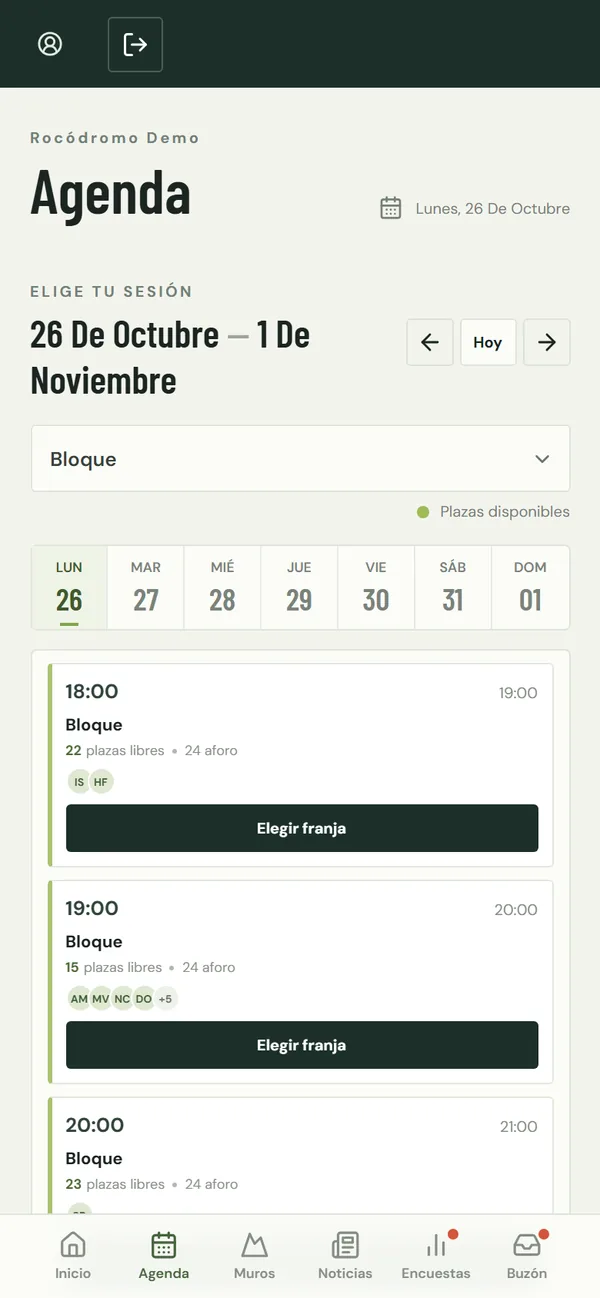
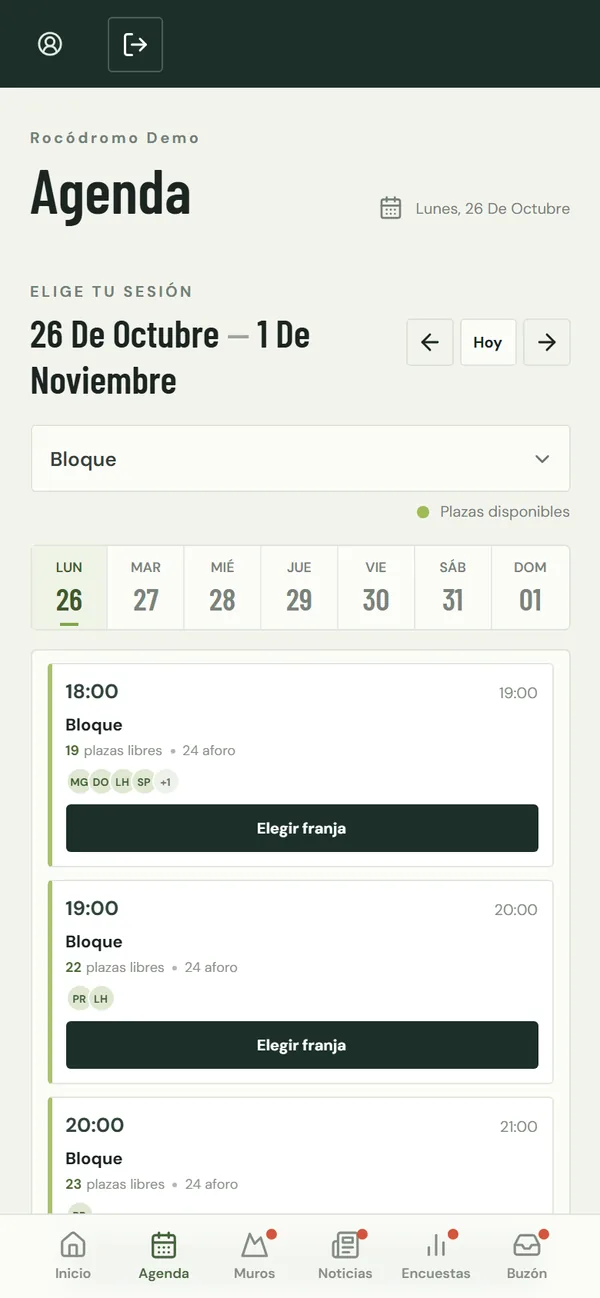
chore(landing): name the demo member Sara and refresh the screenshots

diff --git a/demo/seed_demo.py b/demo/seed_demo.py
@@ -33,7 +33,7 @@ if not settings.DEBUG:
 CODE = 'demo'
 PASSWORD = 'Demo-presa-2026'
 MEMBERS = [
-    ('laura', 'Laura', 'Martín'), ('pablo', 'Pablo', 'Ruiz'), ('irene', 'Irene', 'Soler'),
+    ('sara', 'Sara', 'Martín'), ('pablo', 'Pablo', 'Ruiz'), ('irene', 'Irene', 'Soler'),
     ('marcos', 'Marcos', 'Vidal'), ('nuria', 'Nuria', 'Campos'), ('hugo', 'Hugo', 'Ferrer'),
     ('alba', 'Alba', 'Moreno'), ('jorge', 'Jorge', 'Navarro'), ('carla', 'Carla', 'Ibáñez'),
     ('sergio', 'Sergio', 'Prieto'), ('marta', 'Marta', 'Gil'), ('dani', 'Dani', 'Ortega'),
@@ -101,7 +101,7 @@ def reset_club() -> Club:
 
 
 def create_people(today) -> dict[str, User]:
-    """Crea los socios, el personal y sus cuotas; Laura tiene la cuota a 5 días de terminar."""
+    """Crea los socios, el personal y sus cuotas; Sara tiene la cuota a 5 días de terminar."""
     admin = User.objects.get(email='admin@demo.presa.test')
     admin.first_name, admin.last_name, admin.must_change_password = 'Admin', 'Demo', False
     admin.role, admin.is_staff, admin.is_superuser = User.Role.ADMIN, True, True
@@ -111,9 +111,9 @@ def create_people(today) -> dict[str, User]:
     for key, first, last in MEMBERS:
         people[key] = User.objects.create_user(email=f'{key}@demo.presa.test', password=PASSWORD, first_name=first,
                                                last_name=last, waiver_signed_at=signed)
-        ends_on = today + timedelta(days=5) if key == 'laura' else today + timedelta(days=rng.randint(20, 300))
+        ends_on = today + timedelta(days=5) if key == 'sara' else today + timedelta(days=rng.randint(20, 300))
         Membership.objects.create(user=people[key], starts_on=today - timedelta(days=60), ends_on=ends_on,
-                                  auto_renew=key != 'laura')
+                                  auto_renew=key != 'sara')
     people['staff'] = User.objects.create_user(email='equipo@demo.presa.test', password=PASSWORD, first_name='Equipo',
                                                last_name='Demo', role=User.Role.STAFF, waiver_signed_at=signed)
     return people
@@ -137,7 +137,7 @@ def create_agenda(people: dict[str, User], now) -> None:
         local_hour = timezone.localtime(session.starts_at).hour
         busy = 17 <= local_hour <= 21
         for member in rng.sample(members, rng.randint(4, 11) if busy else rng.randint(0, 3)):
-            if member is not people['laura']:
+            if member is not people['sara']:
                 try_book(user=member, session=session, now=now)
     gym = spaces[2]
     evening = sessions.filter(space=gym, starts_at__gte=now + timedelta(hours=2)).order_by('starts_at').first()
@@ -146,13 +146,13 @@ def create_agenda(people: dict[str, User], now) -> None:
             if not Booking.objects.filter(user=member, session=evening).exists():
                 try_book(user=member, session=evening, now=now)
     tomorrow_evening = timezone.make_aware(datetime.combine(now.date() + timedelta(days=1), time(18)))
-    laura_slot = Session.objects.filter(space=spaces[0], starts_at=tomorrow_evening).first()
-    if laura_slot is not None:
-        try_book(user=people['laura'], session=laura_slot, now=now)
+    sara_slot = Session.objects.filter(space=spaces[0], starts_at=tomorrow_evening).first()
+    if sara_slot is not None:
+        try_book(user=people['sara'], session=sara_slot, now=now)
 
 
 def create_walls(people: dict[str, User], today, now) -> None:
-    """Dos multipresa con vías de los socios y tres bloques; uno, proyecto de Laura, se desmonta en 3 días."""
+    """Dos multipresa con vías de los socios y tres bloques; uno, proyecto de Sara, se desmonta en 3 días."""
     authors = [people[key] for key in ('pablo', 'irene', 'marcos', 'nuria', 'hugo', 'alba')]
     route_names = [('La diagonal', '6a'), ('Amarilla de calentar', '5'), ('El techo', '6c+'), ('Regletas', '6b'),
                    ('Travesía larga', '6a+'), ('Explosiva', '7a')]
@@ -172,7 +172,7 @@ def create_walls(people: dict[str, User], today, now) -> None:
                 RouteAscent.objects.create(route=route, user=member, style=rng.choice(['flash', 'done', 'done', 'project']))
     first = Route.objects.get(wall__slug='desplome', name='La diagonal')
     RouteComment.objects.create(route=first, author=people['irene'], body='Muy bonita, el paso del medio es la clave.')
-    RouteComment.objects.create(route=first, author=people['laura'], body='¡Por fin la saqué! Gracias por montarla.')
+    RouteComment.objects.create(route=first, author=people['sara'], body='¡Por fin la saqué! Gracias por montarla.')
     boulders = [('la-fisura', 'La fisura', '6b', 3, 31), ('techo-amarillo', 'Techo amarillo', '7a', 10, 37),
                 ('el-tobogan', 'El tobogán', '5+', None, 43)]
     for order, (slug, name, grade, days, seed) in enumerate(boulders, start=3):
@@ -185,7 +185,7 @@ def create_walls(people: dict[str, User], today, now) -> None:
     mark = {'la-fisura': 'project', 'el-tobogan': 'flash'}
     for slug, style in mark.items():
         RouteAscent.objects.create(route=Route.objects.get(wall__slug=slug, is_wall_problem=True),
-                                   user=people['laura'], style=style)
+                                   user=people['sara'], style=style)
     Wall.objects.exclude(slug='el-tobogan').update(created_at=now - timedelta(days=20))
 
 
@@ -205,9 +205,9 @@ def create_club_life(people: dict[str, User], now) -> None:
     for member in [people[key] for key in ('pablo', 'irene', 'marcos', 'nuria', 'hugo', 'alba', 'jorge')]:
         response = PollResponse.objects.create(poll=poll, user=member)
         PollSelection.objects.create(response=response, option=rng.choice(options))
-    ticket = Ticket.objects.create(author=people['laura'], subject='La ducha de la izquierda no calienta',
+    ticket = Ticket.objects.create(author=people['sara'], subject='La ducha de la izquierda no calienta',
                                    last_message_at=now - timedelta(hours=1))
-    TicketMessage.objects.create(ticket=ticket, author=people['laura'], body='Desde ayer sale fría.')
+    TicketMessage.objects.create(ticket=ticket, author=people['sara'], body='Desde ayer sale fría.')
     TicketMessage.objects.create(ticket=ticket, author=staff, body='Gracias por avisar, mañana viene el técnico.')
 
 
@@ -219,4 +219,4 @@ with schema_context(club.schema_name):
     create_agenda(people, now)
     create_walls(people, today, now)
     create_club_life(people, now)
-print(f'Club demo listo: /club/{CODE}/ · laura@demo.presa.test / {PASSWORD} · admin@demo.presa.test / {PASSWORD}')
+print(f'Club demo listo: /club/{CODE}/ · sara@demo.presa.test / {PASSWORD} · admin@demo.presa.test / {PASSWORD}')

diff --git a/demo/README.md b/demo/README.md
@@ -16,7 +16,7 @@ docker compose run --rm -v "$PWD/e2e/capture-output:/in" -v "$PWD/landing:/landi
   python /landing/demo/to_webp.py /in /landing/img
 ```
 
-Accesos del club demo: `laura@demo.presa.test` (socia) y `admin@demo.presa.test` (administrador),
+Accesos del club demo: `sara@demo.presa.test` (socia) y `admin@demo.presa.test` (administrador),
 contraseña `Demo-presa-2026`.
 
 Del panel solo se enseña la importación de socios: el resto del panel aún está en inglés.
